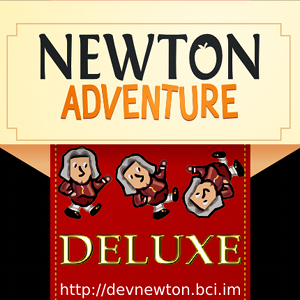
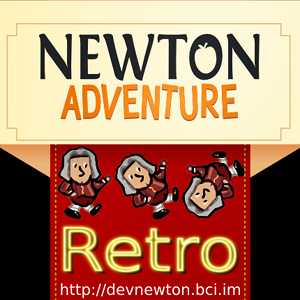
improves mod installers

Changed region(s): [[0.18, 0.75, 0.81, 0.93]]

diff --git a/mods/deluxe/src/izpack/hello.html b/mods/deluxe/src/izpack/hello.html
@@ -1,0 +1,8 @@
+<html>
+<body>
+<h1>Welcome to $APP_NAME $APP_VER installer.</h1>
+<p>This mod must be installed in your configuration directory. <strong>If you are unsure keep the default path.</strong></p>
+<p>After the installation, launch Newton Adventure, go to the <strong>options menu</strong> and change the <strong>mod combobox</strong>.</p>
+<p>Go to <a href="$APP_URL">Newton Adventure website</a> for more info.<p>
+</body>
+</html>

diff --git a/mods/retro/src/izpack/hello.html b/mods/retro/src/izpack/hello.html
@@ -1,0 +1,8 @@
+<html>
+<body>
+<h1>Welcome to $APP_NAME $APP_VER installer.</h1>
+<p>This mod must be installed in your configuration directory. <strong>If you are unsure keep the default path.</strong></p>
+<p>After the installation, launch Newton Adventure, go to the <strong>options menu</strong> and change the <strong>mod combobox</strong>.</p>
+<p>Go to <a href="$APP_URL">Newton Adventure website</a> for more info.<p>
+</body>
+</html>
